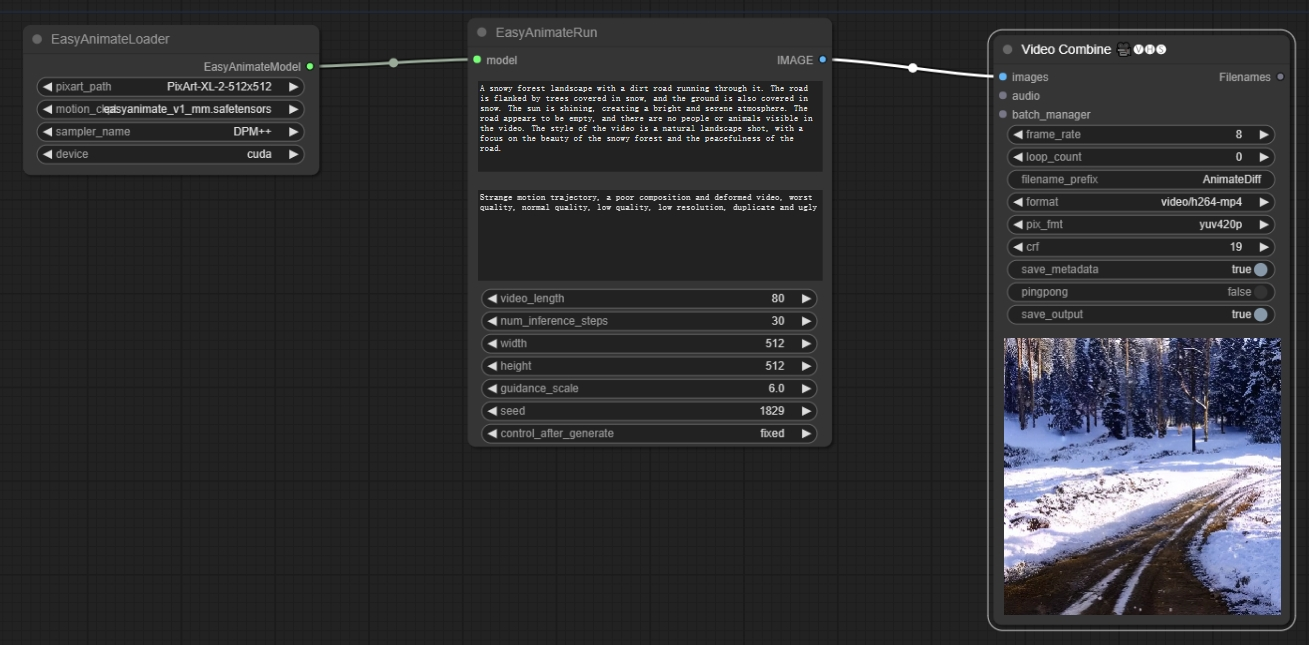
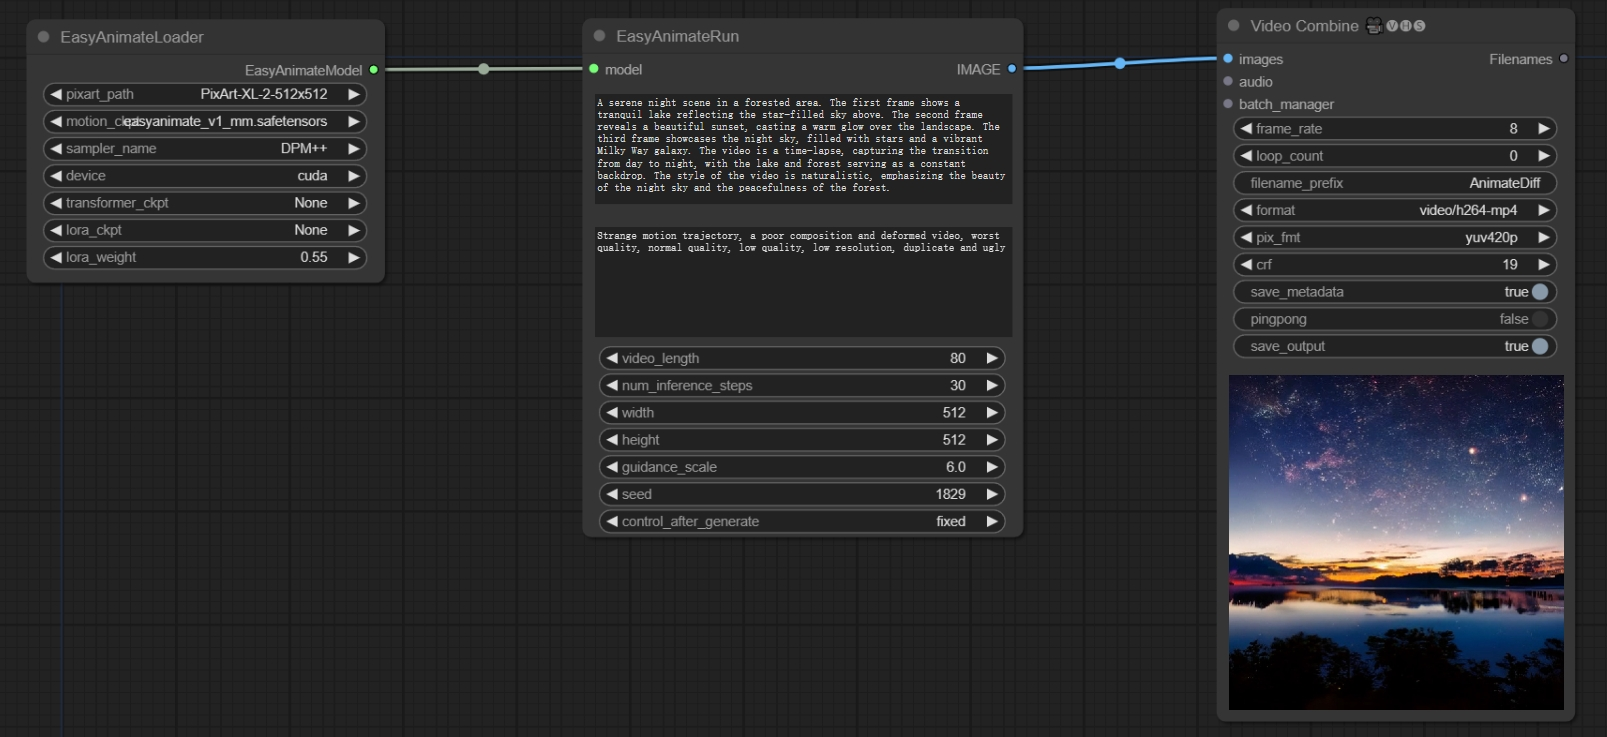
wf

diff --git a/nodes.py b/nodes.py
@@ -21,6 +21,10 @@ from easyanimate.utils.lora_utils import merge_lora, unmerge_lora
 from easyanimate.utils.utils import save_videos_grid
 from einops import rearrange
 
+checkpoints=['None']
+checkpoints.extend(folder_paths.get_filename_list("checkpoints"))
+
+
 class EasyAnimateLoader:
     @classmethod
     def INPUT_TYPES(cls):
@@ -32,8 +36,9 @@ class EasyAnimateLoader:
                 "device":(["cuda","cpu"],{"default":"cuda"}),
             },
             "optional": {
-                "transformer_ckpt": (folder_paths.get_filename_list("checkpoints"), {"default": None}),
-                "lora_ckpt": (folder_paths.get_filename_list("checkpoints"), {"default": None}),
+                "transformer_ckpt": (checkpoints, {"default": 'None'}),
+                "lora_ckpt": (checkpoints, {"default": 'None'}),
+                "lora_weight": ("FLOAT", {"default": 0.55}),
             }
         }
 
@@ -41,7 +46,7 @@ class EasyAnimateLoader:
     FUNCTION = "run"
     CATEGORY = "EasyAnimate"
 
-    def run(self,pixart_path,motion_ckpt,sampler_name,device,transformer_ckpt=None,lora_ckpt=None):
+    def run(self,pixart_path,motion_ckpt,sampler_name,device,transformer_ckpt='None',lora_ckpt='None',lora_weight=0.55):
         pixart_path=os.path.join(folder_paths.get_folder_paths("diffusers")[0],pixart_path)
         # Config and model path
         config_path         = f"{easyanimate_path}/config/easyanimate_video_motion_module_v1.yaml"
@@ -53,20 +58,20 @@ class EasyAnimateLoader:
 
         # Load pretrained model if need
         transformer_path    = None
-        if transformer_ckpt is not None:
+        if transformer_ckpt!='None':
             transformer_path    = folder_paths.get_full_path("checkpoints", transformer_ckpt)
         motion_module_path = folder_paths.get_full_path("checkpoints", motion_ckpt)
         #motion_module_path  = "models/Motion_Module/easyanimate_v1_mm.safetensors" 
         vae_path            = None
         lora_path           = None
-        if lora_ckpt is not None:
+        if lora_ckpt!='None':
             lora_path    = folder_paths.get_full_path("checkpoints", lora_ckpt)
 
         weight_dtype        = torch.float16
         guidance_scale      = 6.0
         seed                = 43
         num_inference_steps = 30
-        lora_weight         = 0.55
+        #lora_weight         = 0.55
 
         config = OmegaConf.load(config_path)
 
